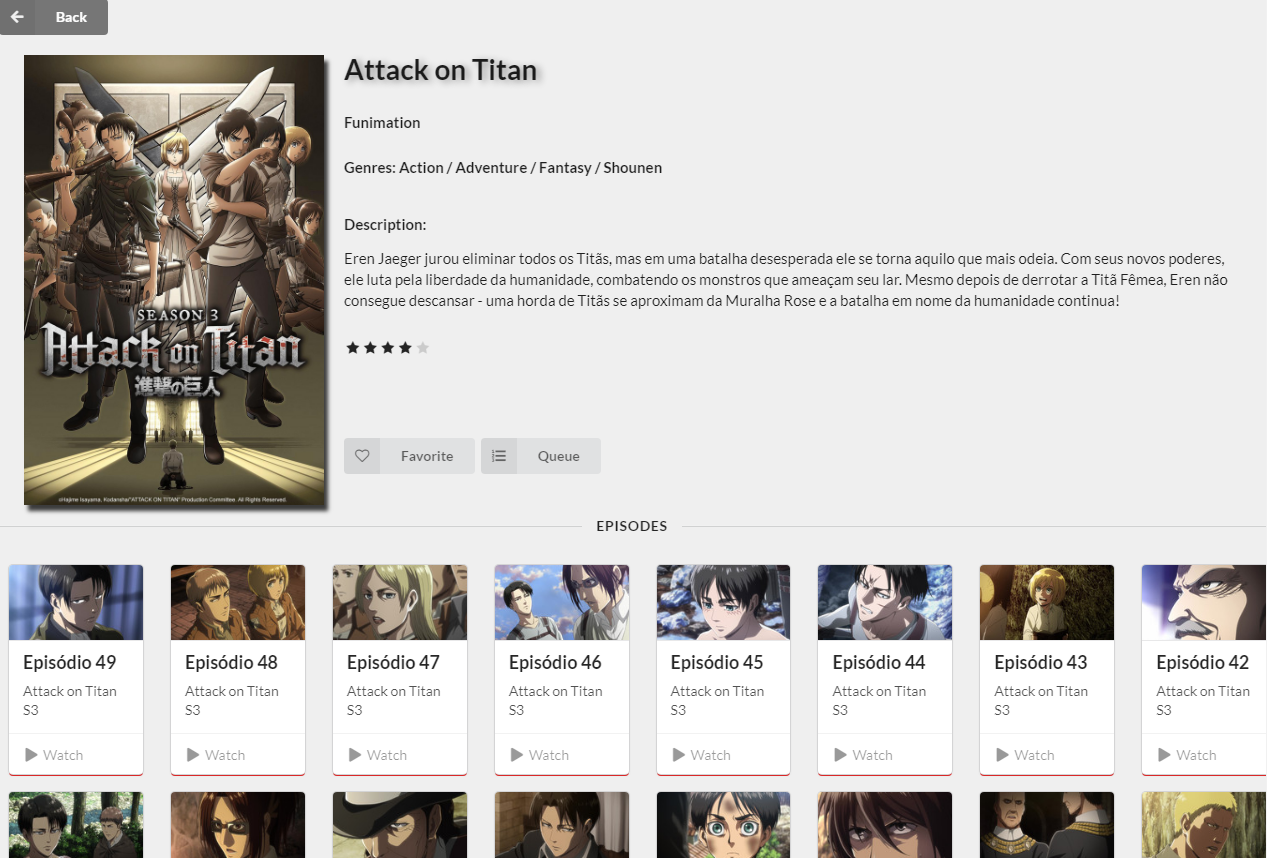
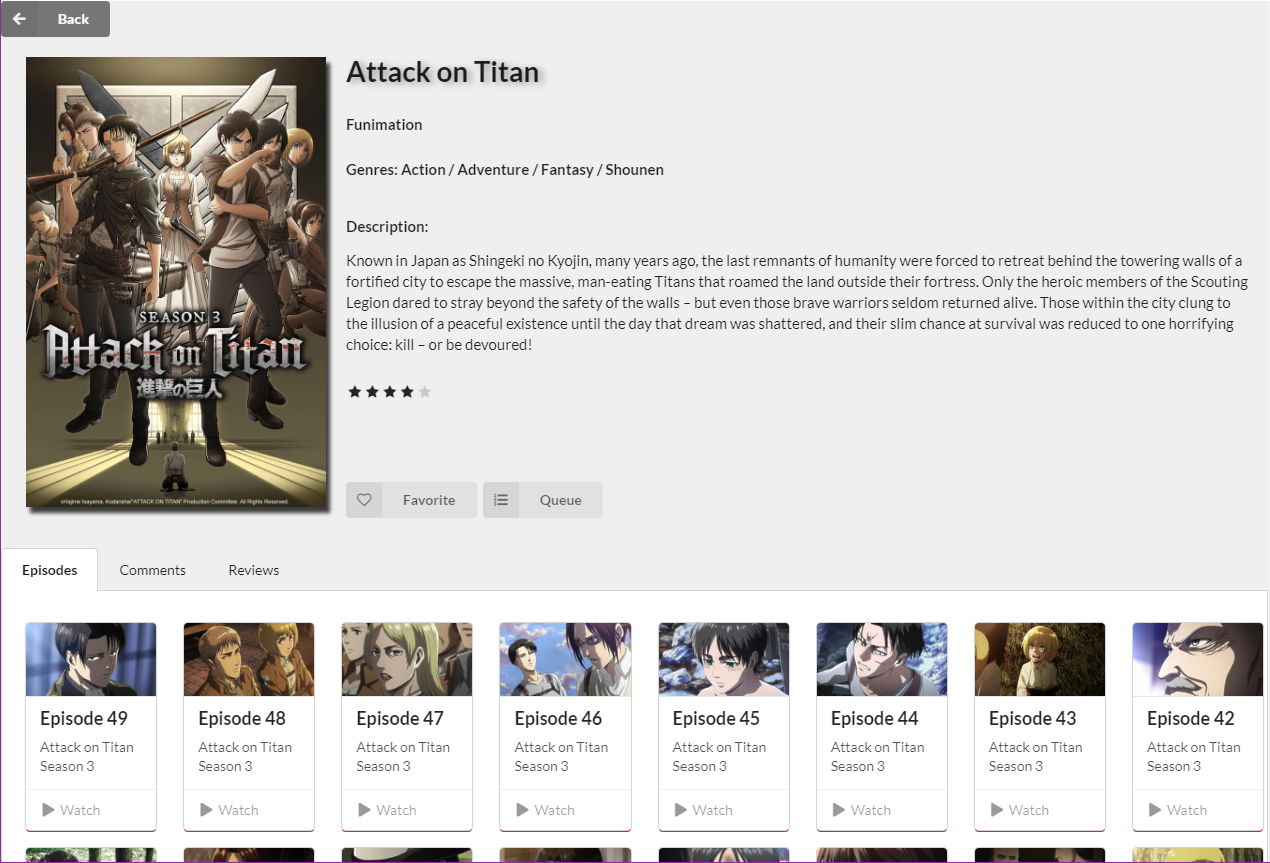
started adding comments and reviews tab at series page

Changed region(s): [[0.0, 0.6061, 1.0, 1.0], [0.0, 0.0606, 0.985, 0.6061], [0.0, 0.0, 0.0923, 0.0303]]

diff --git a/src/app/series.js b/src/app/series.js
@@ -10,17 +10,25 @@ import {Crunchyroll} from '../crunchyroll';
 //components
 import SeriesInfo from '../components/seriesinfo';
 import Episodes from '../components/episodes';
+import CommentComponent from '../components/comment';
 //ui
-import {Grid, Button, Icon, Message, Divider} from 'semantic-ui-react';
+import {Grid, Button, Icon, Message, Divider, Tab, Menu, Comment} from 'semantic-ui-react';
 
 export default class Series extends React.Component {
   constructor(props) {
     super(props);
-    this.isLoading = false;
     this.series = null;
+    this.episodesLenght = null;
     this.state = {
       episodes: [],
+      comments: [],
+      commentsPage: 1,
+      commentsPageCanGoBack: false,
+      series: null,
       info: null,
+      loading: true,
+      loadingEpisodes: true,
+      loadingComments: true,
     };
 
     this.init(props);
@@ -29,20 +37,28 @@ export default class Series extends React.Component {
   async init(props) {
     // Series to show at loading
     this.series = props.location.state;
-    // Starts Loading..
-    this.isLoading = true;
 
     // get series
     const series = await this.getSeries(props);
-    await Crunchyroll.getEpisodes(series);
 
     // get series info
     const info = await Crunchyroll.getInfo(series);
     if (this._isMounted) {
       this.setState({
         info: info,
+        series: series,
       });
     }
+
+    // get episodes and total episodes
+    this.episodesLenght = await Crunchyroll.getEpisodes(series);
+
+    // get comments
+    const comments = await Crunchyroll.getComments(series._id, 1);
+    this.setState({
+      comments: comments,
+      loadingComments: false,
+    });
   }
 
   async componentDidMount() {
@@ -67,6 +83,34 @@ export default class Series extends React.Component {
       .subscribe(episodes => this.setState({episodes}));
   }
 
+  componentDidUpdate() {
+    const {info, loading, episodes, loadingEpisodes, commentsPage, commentsPageCanGoBack} = this.state;
+
+    // ends loading
+    if (info != null && loading) {
+      this.setState({
+        loading: false,
+      });
+    }
+
+    if (episodes.length == this.episodesLenght && loadingEpisodes) {
+      this.setState({
+        loadingEpisodes: false,
+      });
+    }
+
+    // determines if comments page can go back
+    if (commentsPage > 1 && !commentsPageCanGoBack) {
+      this.setState({
+        commentsPageCanGoBack: true,
+      });
+    } else if (commentsPage <= 1 && commentsPageCanGoBack) {
+      this.setState({
+        commentsPageCanGoBack: false,
+      });
+    }
+  }
+
   componentWillUnmount() {
     this._isMounted = false;
 
@@ -83,8 +127,41 @@ export default class Series extends React.Component {
     return series;
   }
 
+  async loadComments(option) {
+    const {series, commentsPage} = this.state;
+
+    // next page
+    if (option == 1) {
+      // loading
+      this.setState({
+        loadComments: true,
+      });
+
+      const comments = await Crunchyroll.getComments(series._id, commentsPage + 1);
+      this.setState({
+        comments: comments,
+        loadComments: false,
+        commentsPage: commentsPage + 1,
+      });
+    } else if (option == 0) {
+      // previous page
+
+      // loading
+      this.setState({
+        loadComments: true,
+      });
+
+      const comments = await Crunchyroll.getComments(series._id, commentsPage - 1);
+      this.setState({
+        comments: comments,
+        loadComments: false,
+        commentsPage: commentsPage - 1,
+      });
+    }
+  }
+
   render() {
-    const {episodes, info} = this.state;
+    const {episodes, info, loading, loadingEpisodes, comments, loadingComments, commentsPageCanGoBack} = this.state;
     const {history} = this.props;
 
     let title;
@@ -94,48 +171,83 @@ export default class Series extends React.Component {
       title = this.series.title;
     }
 
-    // if episodes and info is ready, ends loading.
-    if (episodes.length > 0 && info !== null) {
-      this.isLoading = false;
-    }
+    const series = (
+      <div>
+        <Grid columns="equal">
+          <Grid.Row stretched>
+            {episodes.map(epi => <Episodes key={epi._id} episode={epi} />)}
+          </Grid.Row>
+        </Grid>
+      </div>
+    );
 
-    let series;
-    // Main series page
-    if (!this.isLoading) {
-      series = (
-        <div>
-          <SeriesInfo info={info} />
-          <Divider horizontal><FormattedMessage id="Series.Episodes" defaultMessage="Episodes" /></Divider>
-          <Grid columns="equal">
-            <Grid.Row stretched>
-              {episodes.map(epi => <Episodes key={epi._id} episode={epi} />)}
-            </Grid.Row>
-          </Grid>
-        </div>
-      );
-    }
-    // Loading..
-    if (this.isLoading) {
-      series = (
-        <div>
-          <Divider />
-          <Message icon>
-            <Icon name="circle notched" loading />
-            <Message.Content>
-              <Message.Header><FormattedMessage id="Loading" defaultMessage="Loading" /> {title}</Message.Header>
-              <FormattedMessage id="Loading.DefaultMessage" defaultMessage="Just one second!" />
-            </Message.Content>
-          </Message>
-        </div>
-      );
-    }
+    const commentsTab = (
+      <div>
+        <Comment.Group size="large">
+          {comments.map(comment => <CommentComponent key={comment.comment.id} commentData={comment} />)}
+        </Comment.Group>
+        {commentsPageCanGoBack
+          ? <Button icon labelPosition="left" onClick={() => this.loadComments(0)}>
+              Previous Page
+              <Icon name="left arrow" />
+            </Button>
+          : null}
+        <Button icon labelPosition="right" onClick={() => this.loadComments(1)}>
+          Next Page
+          <Icon name="right arrow" />
+        </Button>
+      </div>
+    );
+
+    // tabs
+    const panes = [
+      {
+        menuItem: (
+          <Menu.Item key="episodes">
+            <FormattedMessage id="SeriesTab.Episodes" defaultMessage="Episodes" />
+          </Menu.Item>
+        ),
+        render: () => loadingEpisodes ? <Tab.Pane loading /> : <Tab.Pane>{series}</Tab.Pane>,
+      },
+      {
+        menuItem: (
+          <Menu.Item key="comments">
+            <FormattedMessage id="SeriesTab.Comments" defaultMessage="Comments" />
+          </Menu.Item>
+        ),
+        render: () => loadingComments ? <Tab.Pane loading /> : <Tab.Pane>{commentsTab}</Tab.Pane>,
+      },
+      {
+        menuItem: (
+          <Menu.Item key="reviews">
+            <FormattedMessage id="SeriesTab.Reviews" defaultMessage="Reviews" />
+          </Menu.Item>
+        ),
+        render: () => <Tab.Pane>SOON</Tab.Pane>,
+      },
+    ];
+
     return (
       <div>
         <Button href="#back" icon labelPosition="left" color="grey" className="button" onClick={() => history.goBack()}>
           <Icon name="arrow left" />
           <FormattedMessage id="Button.Back" defaultMessage="Back" />
         </Button>
-        {series}
+        {loading
+          ? <div>
+              <Divider />
+              <Message icon>
+                <Icon name="circle notched" loading />
+                <Message.Content>
+                  <Message.Header><FormattedMessage id="Loading" defaultMessage="Loading" /> {title}</Message.Header>
+                  <FormattedMessage id="Loading.DefaultMessage" defaultMessage="Just one second!" />
+                </Message.Content>
+              </Message>
+            </div>
+          : <div>
+              <SeriesInfo info={info} />
+              <Tab className="seriesTab" panes={panes} />
+            </div>}
       </div>
     );
   }

diff --git a/src/crunchyroll/crunchyroll.js b/src/crunchyroll/crunchyroll.js
@@ -408,7 +408,10 @@ class Crunchyroll {
 
     // store in the db
     await db.episodes.bulkDocs(episodes);
-    return episodes;
+
+    console.log('crunchy', episodes.length);
+
+    return episodes.length;
   }
 
   async getInfo(series) {
@@ -810,6 +813,42 @@ class Crunchyroll {
 
       console.log(jsonObject.message_list[0].type, ': ', jsonObject.message_list[0].message_body);
     });
+  }
+
+  async getComments(series, page = 1) {
+    // cookies
+    const jar = request.jar();
+    if (this.forceLanguage) {
+      jar.setCookie(request.cookie(`c_locale=${this.language}`), baseURL);
+    }
+
+    // request comments data
+    const data = await request({
+      url: `https://www.crunchyroll.com${series}/discussions/page${page}`,
+      jar,
+    });
+
+    // cheerio cursor
+    const $ = cheerio.load(data);
+
+    // comments data depending on page
+    var commentsData = $('#showview_content_comments').text();
+    if (page == 1) {
+      const start = () => {
+        return commentsData.indexOf('var pagedata =') + 15;
+      };
+
+      const end = () => {
+        return commentsData.lastIndexOf('}}];') + 3;
+      };
+
+      commentsData = commentsData.substring(start(), end());
+    }
+
+    // parse to js object
+    const comments = JSON.parse(commentsData);
+
+    return comments;
   }
 }
 

diff --git a/src/localization/context-provider.js b/src/localization/context-provider.js
@@ -29,12 +29,12 @@ class ReactIntlContextProvider extends React.Component {
 
     // switch functions
     this.switchToEnglish = () => {
-      console.log('Crunchy: Switching to language to english');
+      console.log('Crunchy: Switching language to english');
       this.setState({locale: 'en', messages: messagesEn});
       preferences.set('lang', 'en');
     };
     this.switchToPortuguese = () => {
-      console.log('Crunchy: Switching to language to portuguese');
+      console.log('Crunchy: Switching language to portuguese');
       this.setState({locale: 'pt', messages: messagesPt});
       preferences.set('lang', 'pt');
     };

diff --git a/src/components/navbar/index.js b/src/components/navbar/index.js
@@ -203,7 +203,7 @@ class Navbar extends React.Component {
               <Menu className="Menu" fixed="top" pointing borderless>
                 <Menu.Item>
                   <Image
-                    src="https://lh4.googleusercontent.com/-bItNX2Yl1RyNhqEN3T2whsvCgy1hlBKRpzlqSM-5l0CBw5boOU_jXhlaWU53AzyJPYCac0RXzZJv7pflwiA=w1919-h937"
+                    src="https://lh3.googleusercontent.com/qcjtKJXIG1Lb9swUbKSPosMQlp2QWKARrnM5cM9wKQvkNxQWDFEqpxKWeABhKea0PtFyFHsep614wOqcYqwW=w1919-h937"
                     size="tiny"
                   />
                 </Menu.Item>

diff --git a/src/components/comment/index.js b/src/components/comment/index.js
@@ -1,0 +1,19 @@
+//npm
+import React from 'react';
+//ui
+import {Comment} from 'semantic-ui-react';
+
+export default ({commentData}) => {
+  return (
+    <Comment>
+      <Comment.Avatar src={commentData.user.thumb} />
+      <Comment.Content>
+        <Comment.Author as="a">{commentData.user.name}</Comment.Author>
+        <Comment.Metadata>
+          <div>{commentData.comment.formattedTimeCreated}</div>
+        </Comment.Metadata>
+        <Comment.Text>{commentData.comment.body}</Comment.Text>
+      </Comment.Content>
+    </Comment>
+  );
+};

diff --git a/src/app/styles/index.css b/src/app/styles/index.css
@@ -155,3 +155,7 @@ body{
 .subDropdown {
     margin-bottom: 10px;
 }
+
+.seriesTab{
+    margin-top: 30px;
+}
